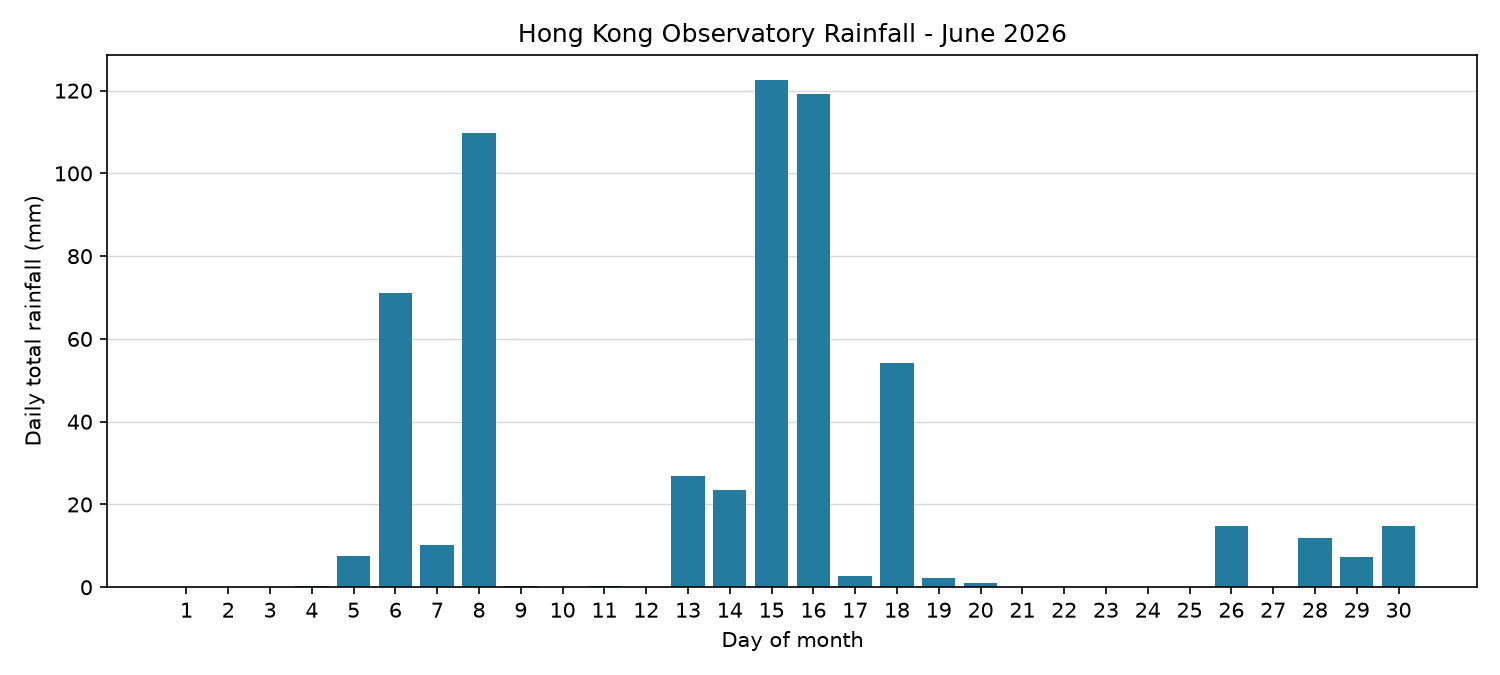
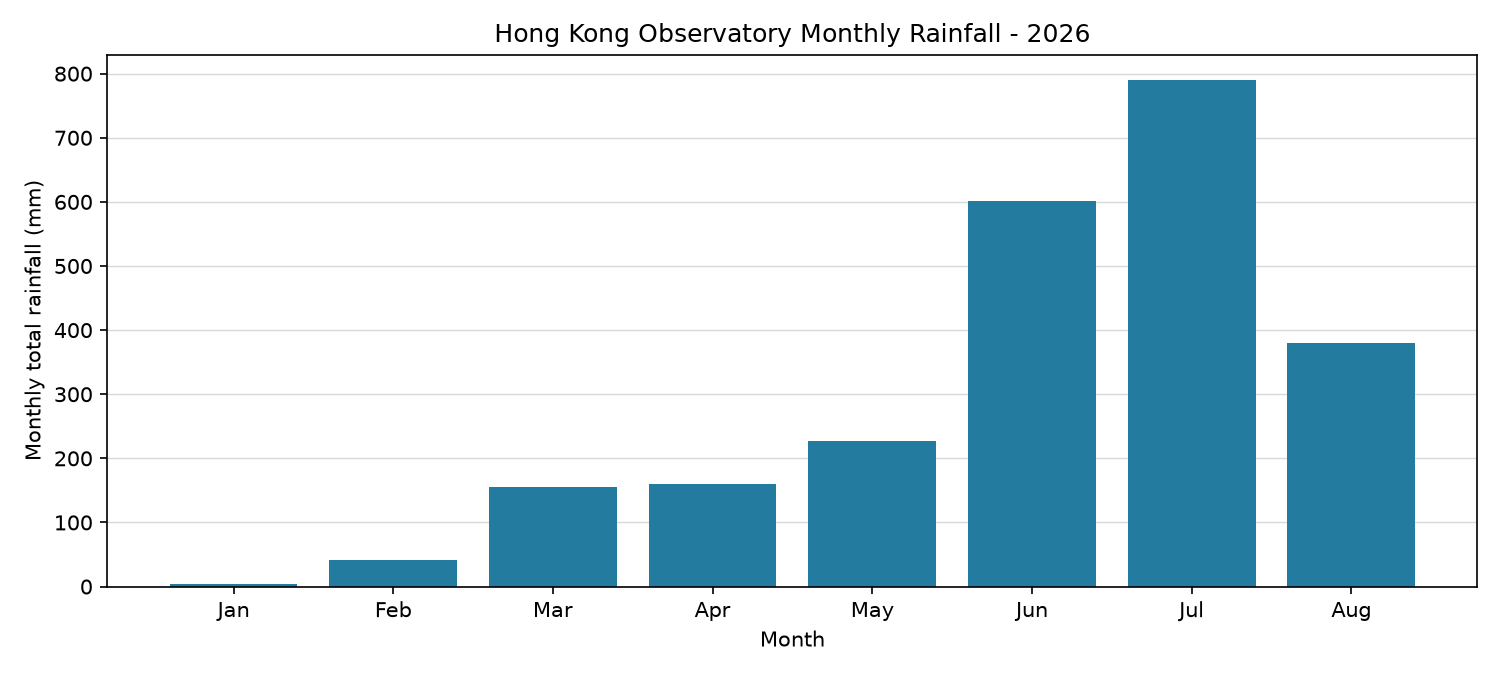
feat: implemented streamlit for UI

diff --git a/streamlit_app.py b/streamlit_app.py
@@ -1,0 +1,84 @@
+# /// script
+# requires-python = ">=3.10"
+# dependencies = ["matplotlib", "requests", "streamlit"]
+# ///
+
+"""Interactive Streamlit interface for HKO daily rainfall records."""
+
+import calendar
+from datetime import date
+
+import matplotlib.pyplot as plt
+import streamlit as st
+
+from fetch import fetch_year
+from plot import rainfall_for_month
+
+
+@st.cache_data(ttl=3600, show_spinner=False)
+def load_year(year):
+    """Fetch and cache one yearly HKO file for this browser session."""
+    return fetch_year(year)
+
+
+st.set_page_config(page_title="Hong Kong Rainfall", layout="wide")
+st.title("Hong Kong Observatory Rainfall")
+
+controls, chart = st.columns([1, 3])
+with controls:
+    year = st.selectbox(
+        "Year",
+        range(date.today().year, 1883, -1),
+    )
+    show_year = st.checkbox("Show the whole year")
+    month = None
+    if not show_year:
+        month = st.selectbox(
+            "Month",
+            range(1, 13),
+            format_func=lambda number: calendar.month_name[number],
+        )
+
+try:
+    with st.spinner(f"Loading rainfall records for {year}..."):
+        data_path = load_year(year)
+
+    figure, axis = plt.subplots(figsize=(10, 4.8))
+    if show_year:
+        months = []
+        totals = []
+        for month_number in range(1, 13):
+            _, daily_totals = rainfall_for_month(data_path, month_number)
+            if daily_totals:
+                months.append(month_number)
+                totals.append(sum(daily_totals))
+        if not months:
+            raise ValueError(f"No rainfall data are available for {year}.")
+        axis.bar(months, totals, color="#247ba0", width=0.8)
+        axis.set_xticks(months, [calendar.month_abbr[number] for number in months])
+        axis.set_xlabel("Month")
+        axis.set_ylabel("Monthly total rainfall (mm)")
+        axis.set_title(f"Monthly Rainfall - {year}")
+        summary = f"{len(months)} months available · {sum(totals):,.1f} mm total"
+    else:
+        days, totals = rainfall_for_month(data_path, month)
+        if not days:
+            raise ValueError(f"No rainfall data are available for {calendar.month_name[month]} {year}.")
+        axis.bar(days, totals, color="#247ba0", width=0.8)
+        axis.set_xticks(range(1, calendar.monthrange(year, month)[1] + 1))
+        axis.set_xlabel("Day of month")
+        axis.set_ylabel("Daily total rainfall (mm)")
+        axis.set_title(f"Daily Rainfall - {calendar.month_name[month]} {year}")
+        summary = f"{len(days)} days available · {sum(totals):,.1f} mm total"
+
+    axis.grid(axis="y", color="#d9d9d9", linewidth=0.7)
+    axis.set_axisbelow(True)
+    figure.tight_layout()
+
+    with chart:
+        st.caption(summary)
+        st.pyplot(figure, width="stretch")
+    plt.close(figure)
+except Exception as error:
+    with chart:
+        st.error(str(error))

diff --git a/fetch.py b/fetch.py
@@ -26,7 +26,7 @@ def fetch(url, path):
     """Download a raw file, replacing any existing copy."""
     DATA.mkdir(exist_ok=True)
     print(f"asking {url}")
-    reply = requests.get(url, timeout=60, headers={"User-Agent": "SD5913 PolyU student"})
+    reply = requests.get(url, timeout=60)
     reply.raise_for_status()
     path.write_bytes(reply.content)
     print(f"saved data/{path.name} ({path.stat().st_size // 1024} KB), replacing any older copy")

diff --git a/plot.py b/plot.py
@@ -74,7 +74,7 @@ def main():
     year = ask_for_number("Year", 1884, date.today().year)
     show_year = ask_for_yearly_chart()
     if not show_year:
-        month = ask_for_number("Month", 1, 12)
+        month = ask_for_number("Month(1-12)", 1, 12)
     data_path = fetch_year(year)
 
     fig, ax = plt.subplots(figsize=(10, 4.5))

diff --git a/README.md b/README.md
@@ -38,3 +38,9 @@ Enter a year and month when prompted. The program refreshes the complete yearly
 HKO data file in `data/`, then saves and displays a bar chart for that month.
 Enable the yearly chart switch to display one total rainfall bar for each
 available month instead.
+
+To use the browser interface instead, run:
+
+```
+uv run --with streamlit --with matplotlib --with requests streamlit run streamlit_app.py
+```
